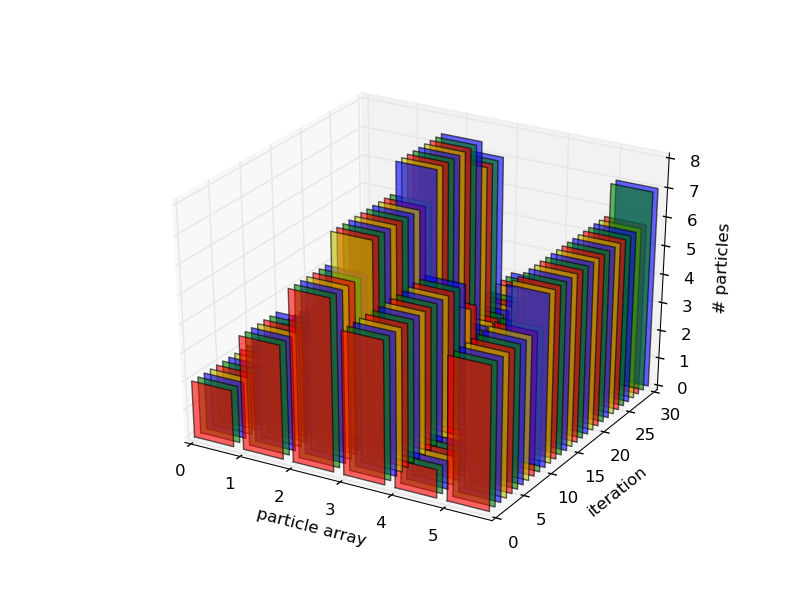
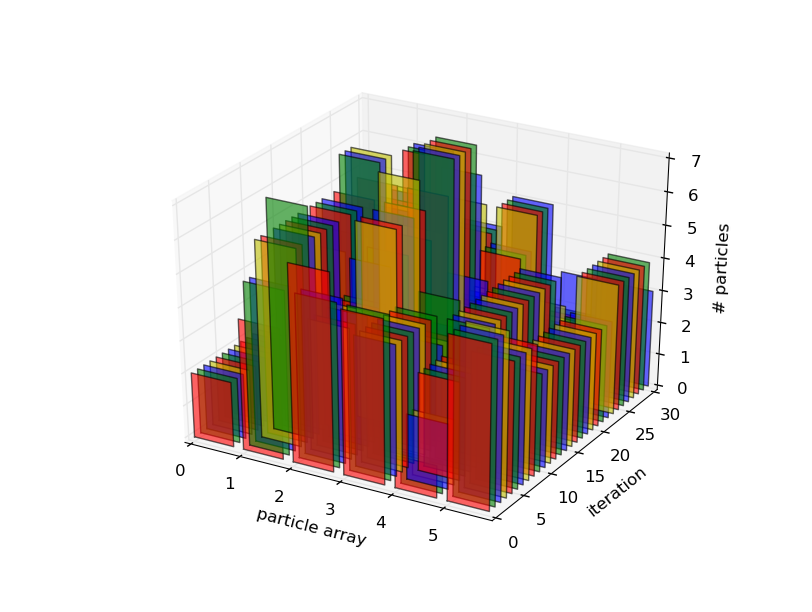
fixed the monte carlo bug, added more tests

Changed region(s): [[0.2155, 0.2173, 0.8621, 0.8072], [0.8313, 0.2484, 0.8621, 0.2794]]

diff --git a/02_testing/monte_carlo.py b/02_testing/monte_carlo.py
@@ -7,21 +7,36 @@ from mpl_toolkits.mplot3d import Axes3D
 
 def move_particle(particle_array):
 
+  particle_array = numpy.array(particle_array)
+
+  if particle_array.dtype.kind != 'i' and len(particle_array) > 0:
+    raise TypeError("particle_array should be an array of *integers*.")
+    # and the right values (positive or null)
+  if any(particle_array < 0):
+    raise ValueError("particle_array should be an array of *positive* integers.")
+  if particle_array.ndim != 1:
+    raise ValueError("particle_array should be an a *1-dimensional* array of positive integers.")
+  if not any(particle_array):
+    raise ValueError("particle array must contain at least one particle")
+
   n = len(particle_array)
+  print "n=",n
 
   selected_particle = int(rnd.uniform(0, n))
 
-  displacement = 0
+  displacement = -1
   if rnd.random() < 0.5:
     displacement = 1
 
   while (selected_particle + displacement < 0 or selected_particle + displacement >= n or particle_array[selected_particle] == 0):
     selected_particle = int(rnd.uniform(0, n))
 
-    displacement = 0
+    displacement = -1
     if rnd.random() < 0.5:
       displacement = 1
 
+  #print "selected_particle=", selected_particle
+  #print "displacement=", displacement
   particle_array[selected_particle] -= 1
   particle_array[selected_particle + displacement] += 1
 
@@ -48,19 +63,20 @@ def print_density_3d(densities):
 
   plt.show()
 
-def monte_carlo(density, temp):
+def monte_carlo(density, temp, iterations):
 
   n = len(density)
-  iterations = 30
-  densities = numpy.zeros(shape=(iterations+1,n))
+  densities = numpy.zeros(shape=(iterations+1,n), dtype=numpy.int8)
   densities[0] = density
   for i in range(iterations):
     energy_0 = energy(density)
 
     density_1 = move_particle(density)
-    energy_1 = energy(density)
+    energy_1 = energy(density_1)
 
-    if (energy_0 < energy_1):
+    print [energy_0, energy_1]
+    print density
+    if (energy_1 < energy_0):
       density = density_1
     else:
       p0 = math.exp(- (energy_1 - energy_0)/temp)
@@ -73,8 +89,12 @@ def monte_carlo(density, temp):
   return densities
 
 
-densities = monte_carlo([2,4,6,5,1,5], 10.0)
-print densities
+def main():
+  densities = monte_carlo([2,4,6,5,1,5], 10.0, 5)
+  #print densities
 
-print_density_3d(densities)
+  print_density_3d(densities)
 
+
+if __name__ == "__main__":
+    main()

diff --git a/02_testing/test_monte_carlo.py b/02_testing/test_monte_carlo.py
@@ -1,0 +1,45 @@
+from diffusion_model import energy
+from nose.tools import assert_equal, assert_raises, assert_almost_equal
+import numpy as np
+from monte_carlo import move_particle, monte_carlo
+
+def test_move_particle_empty():
+  initial_array = [0,0,0]
+
+  with assert_raises(ValueError) as exception:    move_particle(initial_array)
+
+
+def test_move_particle_sum():
+  initial_array = [2,4,7]
+  sum_initial = sum(initial_array)
+  final_array = move_particle(initial_array)
+
+  assert_equal(sum(initial_array),sum(final_array))
+
+def test_move_particle_edge():
+  initial_array = [0,0,7]
+  final_array = move_particle(initial_array)
+
+  print final_array
+  assert_equal(any(final_array - [0,1,6]), False)
+
+def test_monte_carlo_zero_particles():
+  density = [0,0,0,0]
+  T = 2.0
+  iterations = 20
+
+  with assert_raises(ValueError) as exception:    monte_carlo(density, T, iterations)
+
+def test_monte_carlo_one_particle():
+  density = [0,0,1,0]
+  T = 2.0
+  iterations = 20
+  densities = monte_carlo(density, T, iterations)
+  constant_energy = energy(density)
+  print constant_energy
+
+  for i in range(len(density)):
+    print "energies:", [energy(densities[i]), constant_energy]
+    assert_equal(energy(densities[i]), constant_energy)
+
+
